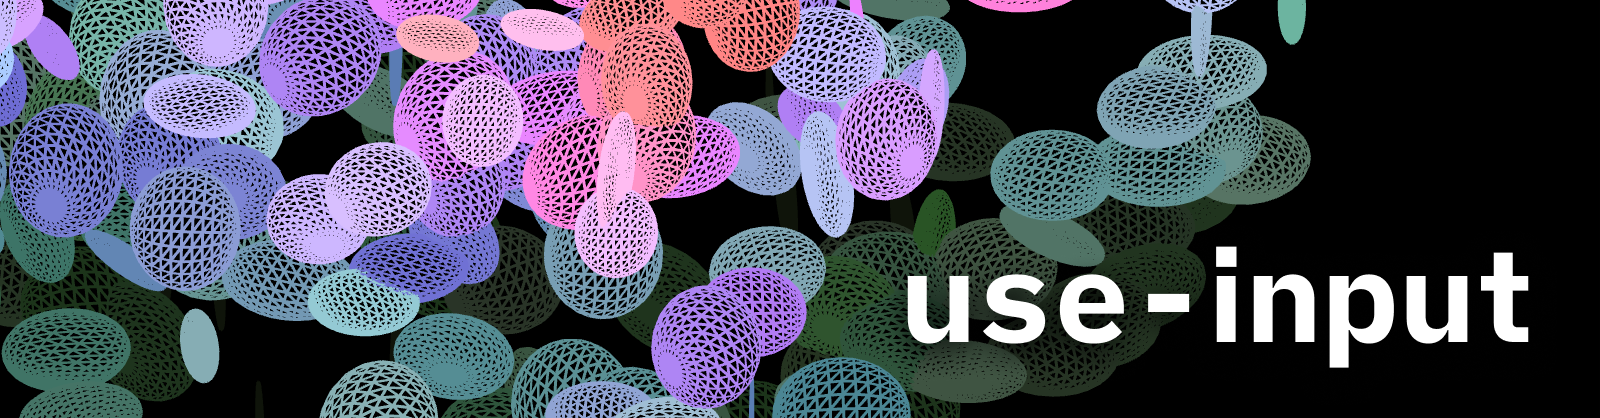
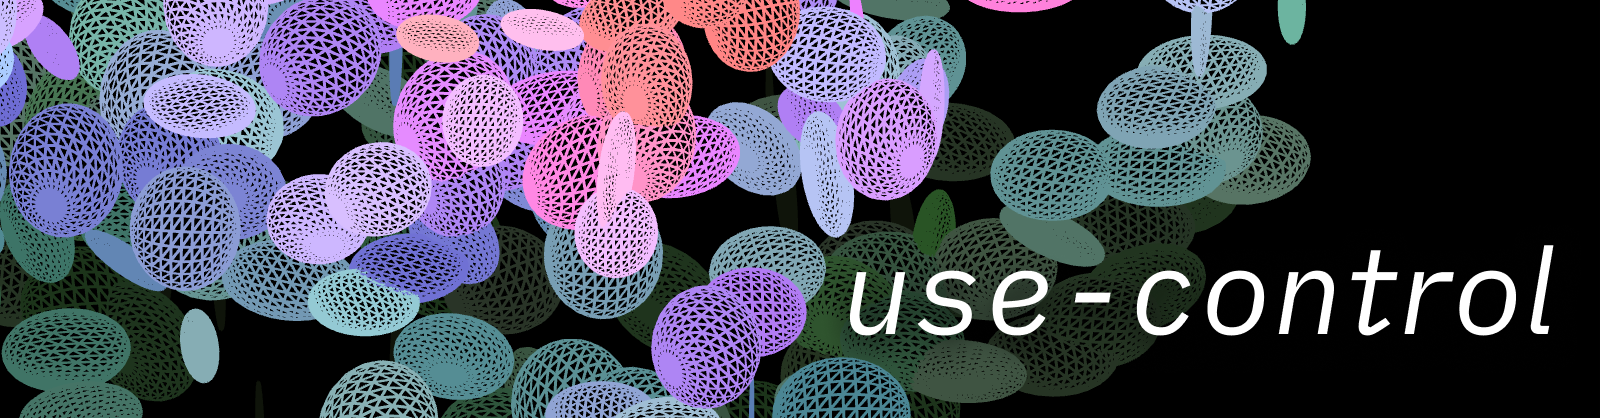
Rename project to use-control

Changed region(s): [[0.5312, 0.5909, 0.9688, 0.9019]]

diff --git a/packages/example/src/Wall.tsx b/packages/example/src/Wall.tsx
@@ -1,4 +1,4 @@
-import { KEYS, useActionHeld, useActionPressed, useMouseMoveNormalised } from '@twopm/use-input'
+import { KEYS, useActionHeld, useActionPressed, useMouseMoveNormalised } from '@twopm/use-control'
 import React, { MutableRefObject, useRef } from 'react'
 
 const inputMap = {

diff --git a/README.md b/README.md
@@ -1,19 +1,19 @@
 
 
-<a href=""><img src="https://github.com/bfollington/use-input/raw/main/banner.png" /></a>
+<a href=""><img src="https://github.com/bfollington/use-control/raw/main/banner.png" /></a>
 <br />
 
-[![Version](https://img.shields.io/npm/v/@twopm/use-input?style=flat&colorA=000000&colorB=000000)](https://npmjs.com/package/@twopm/use-input)
+[![Version](https://img.shields.io/npm/v/@twopm/use-control?style=flat&colorA=000000&colorB=000000)](https://npmjs.com/package/@twopm/use-control)
 [![Twitter](https://img.shields.io/twitter/follow/vivavolt?label=%40vivavolt&style=flat&colorA=000000&colorB=000000&logo=twitter&logoColor=000000)](https://twitter.com/vivavolt)
 [![ETH](https://img.shields.io/badge/ETH-f5f5f5?style=flat&colorA=000000&colorB=000000)](https://blockchain.com/eth/address/0x981e493b795A7a28c43Bf8d7a8E125C419435Fa7)
-![Language](https://img.shields.io/github/languages/top/bfollington/use-input?style=flat&colorA=000000&colorB=000000)
-![License](https://img.shields.io/github/license/bfollington/use-input?style=flat&colorA=000000&colorB=000000)
-![Bundle Size](https://img.shields.io/bundlephobia/min/@twopm/use-input?style=flat&colorA=000000&colorB=000000)
-[![Build](https://github.com/bfollington/use-input/workflows/Build/badge.svg)](https://github.com/bfollington/use-input/actions?query=workflow%3A%22Build%22)
+![Language](https://img.shields.io/github/languages/top/bfollington/use-control?style=flat&colorA=000000&colorB=000000)
+![License](https://img.shields.io/github/license/bfollington/use-control?style=flat&colorA=000000&colorB=000000)
+![Bundle Size](https://img.shields.io/bundlephobia/min/@twopm/use-control?style=flat&colorA=000000&colorB=000000)
+[![Build](https://github.com/bfollington/use-control/workflows/Build/badge.svg)](https://github.com/bfollington/use-control/actions?query=workflow%3A%22Build%22)
 
-<p><strong>use-input</strong> is an elegant, typesafe input management system for React supporting keyboard, mouse and gamepad (soon).</p>
+<p><strong>use-control</strong> is an elegant, typesafe input management system for React supporting keyboard, mouse and gamepad (soon).</p>
   
-<p><a href="https://use-input.vercel.app/">👁 &nbsp;Live Demo</a> (source in <a href="https://github.com/bfollington/use-input/tree/main/packages/example"><code>packages/example</code></a>)</p>
+<p><a href="https://use-control.vercel.app/">👁 &nbsp;Live Demo</a> (source in <a href="https://github.com/bfollington/use-control/tree/main/packages/example"><code>packages/example</code></a>)</p>
 
 # Example
 
@@ -44,11 +44,11 @@ const MyComponent = () => {
 
 # Installation
 ```
-npm i @twopm/use-input
+npm i @twopm/use-control
 ```
 
 ```
-yarn add @twopm/use-input
+yarn add @twopm/use-control
 ```
 
 # API Overview
@@ -67,13 +67,13 @@ yarn add @twopm/use-input
 - `useMouseButtonReleased(callback)`
 - `useAxis(callback, throttleInterval)` (Gamepad API + Mouse)
 
-# Why use-input?
+# Why use-control?
 
-Personally, I'm just tired of writing `useEffect` with `document.addEventListener('keydown', ...)`. `use-input` is the API I've always dreamed of for dealing with input events, it's heavily inspired by my experience with input systems in game development.
+Personally, I'm just tired of writing `useEffect` with `document.addEventListener('keydown', ...)`. `use-control` is the API I've always dreamed of for dealing with input events, it's heavily inspired by my experience with input systems in game development.
 
 # Usage 
 
-`use-input` relies on the core concept of an `Input Mapping` of keycodes, mouse buttons and gamepad buttons into `Input Actions` (i.e. "left", "right", "jump", "select"), declared as a JS object:
+`use-control` relies on the core concept of an `Input Mapping` of keycodes, mouse buttons and gamepad buttons into `Input Actions` (i.e. "left", "right", "jump", "select"), declared as a JS object:
 
 ```ts
 const inputMap = {
@@ -105,7 +105,7 @@ yarn bootstrap
 ### Running the examples
 
 ```
-cd packages/use-input
+cd packages/use-control
 yarn build
 cd ../example
 yarn start
